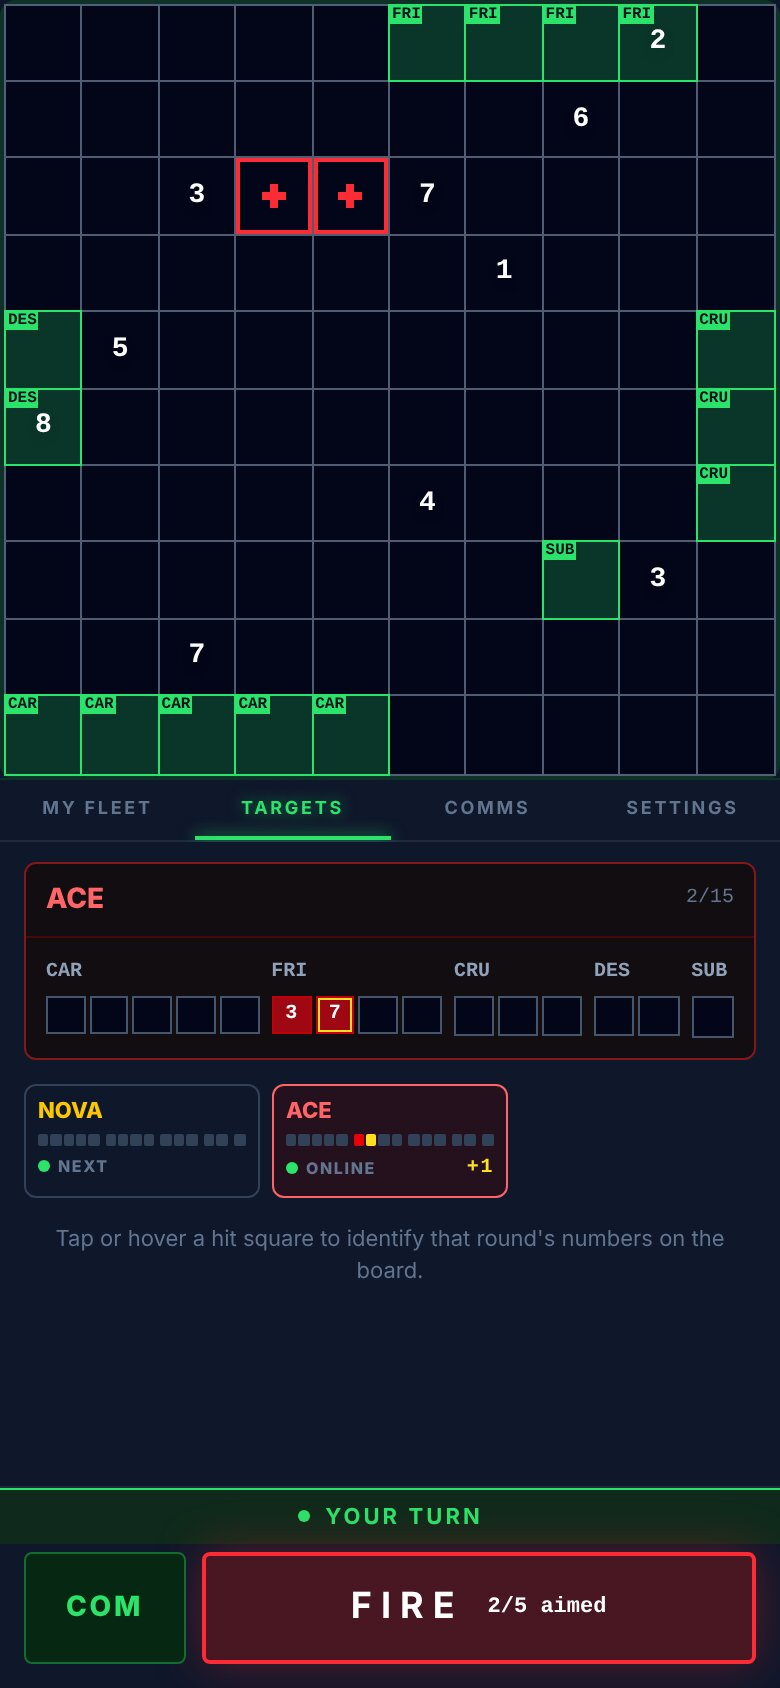
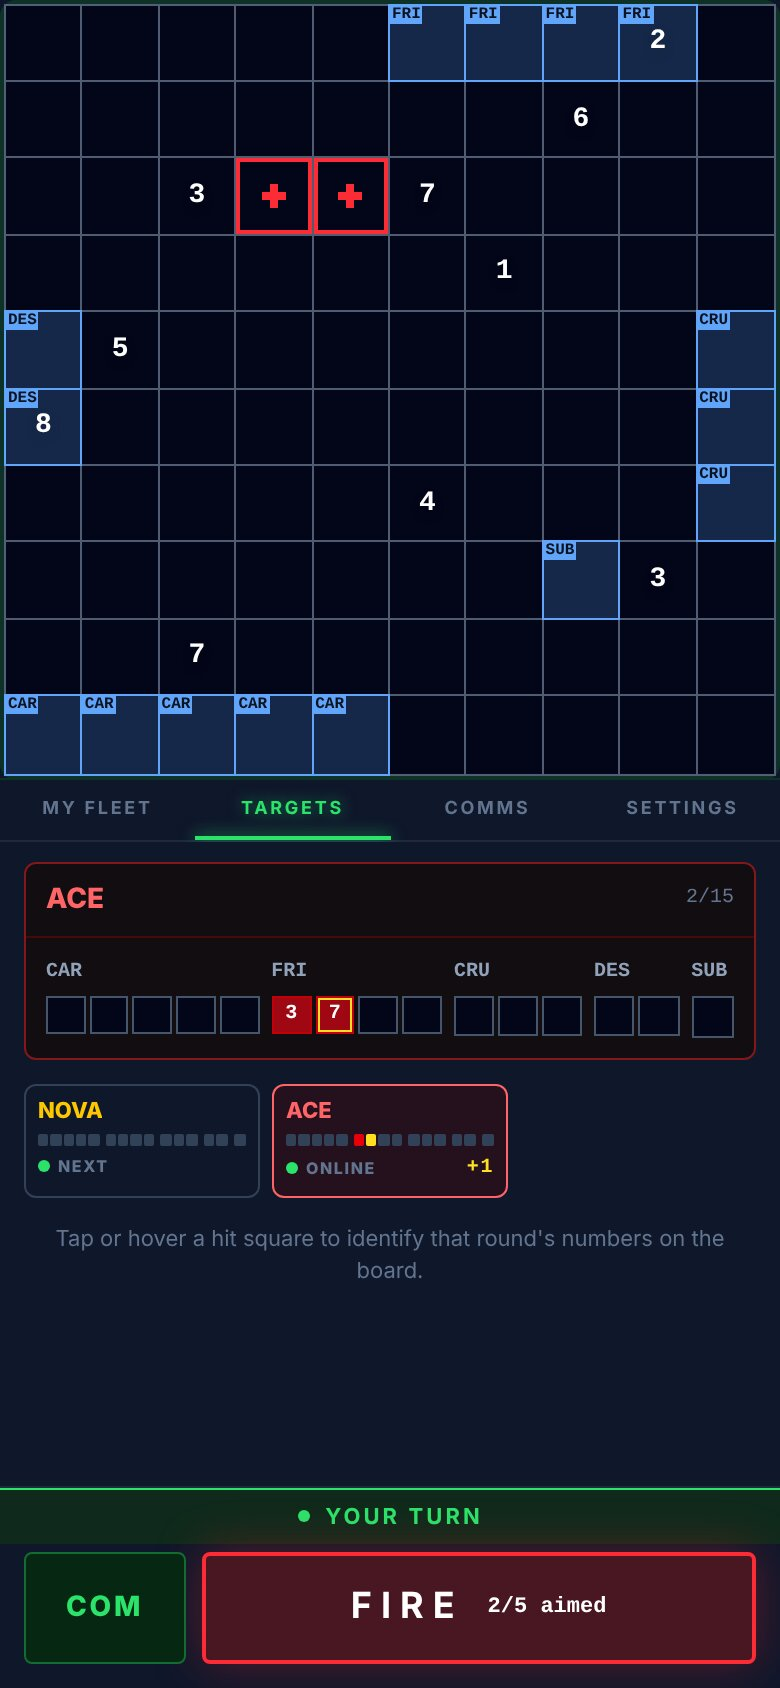
Hero sea and screenshots: ships in your colour, not sonar green
Matches the game, which reverted the always-green own ships.

Claude-Session: https://claude.ai/code/session_01YFqwUgDhPaWQGZBex7avE5

diff --git a/js/sea.js b/js/sea.js
@@ -17,7 +17,7 @@
   var PAN_CELL_MS = 13000;   // the pan moves one cell down and right this often
   var SLOW = 4;              // missiles and impacts play this much slower than in a game
   var SCENE_ALPHA = 0.45;    // ships and shots, dimmed behind the text
-  var SHIP = '43, 227, 107'; // your own ships' sonar green in a game
+  var SHIP = '96, 165, 250'; // your own ships' blue in a game
   var FLIGHT = 260;          // a streak missile's flight in a game (ms)
   var STREAK_DISTANCE = 3.2;
   var TRAIL_CELLS = 1.35;
@@ -144,7 +144,7 @@
     ctx.stroke();
   }
 
-  // A ship's cell as the board draws your own: the cell tinted sonar green, a
+  // A ship's cell as the board draws your own: the cell tinted in your colour, a
   // 1px outline on the cell borders, and the code dark on a slim chip in the
   // top-left corner; crimson, edged in rose, once hit.
   function drawShipCell(x, y, code, hit) {
